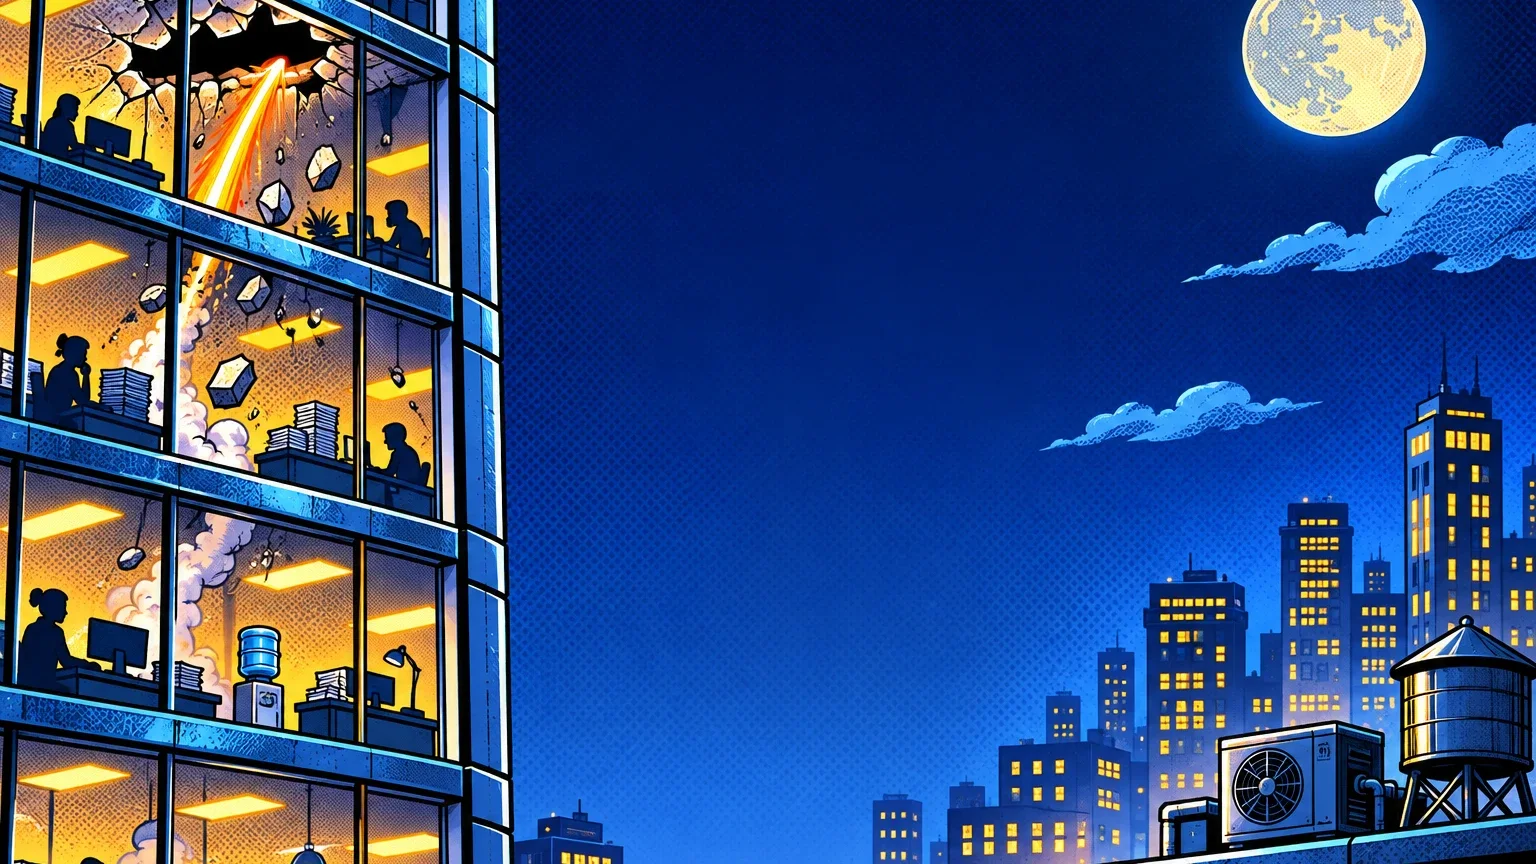
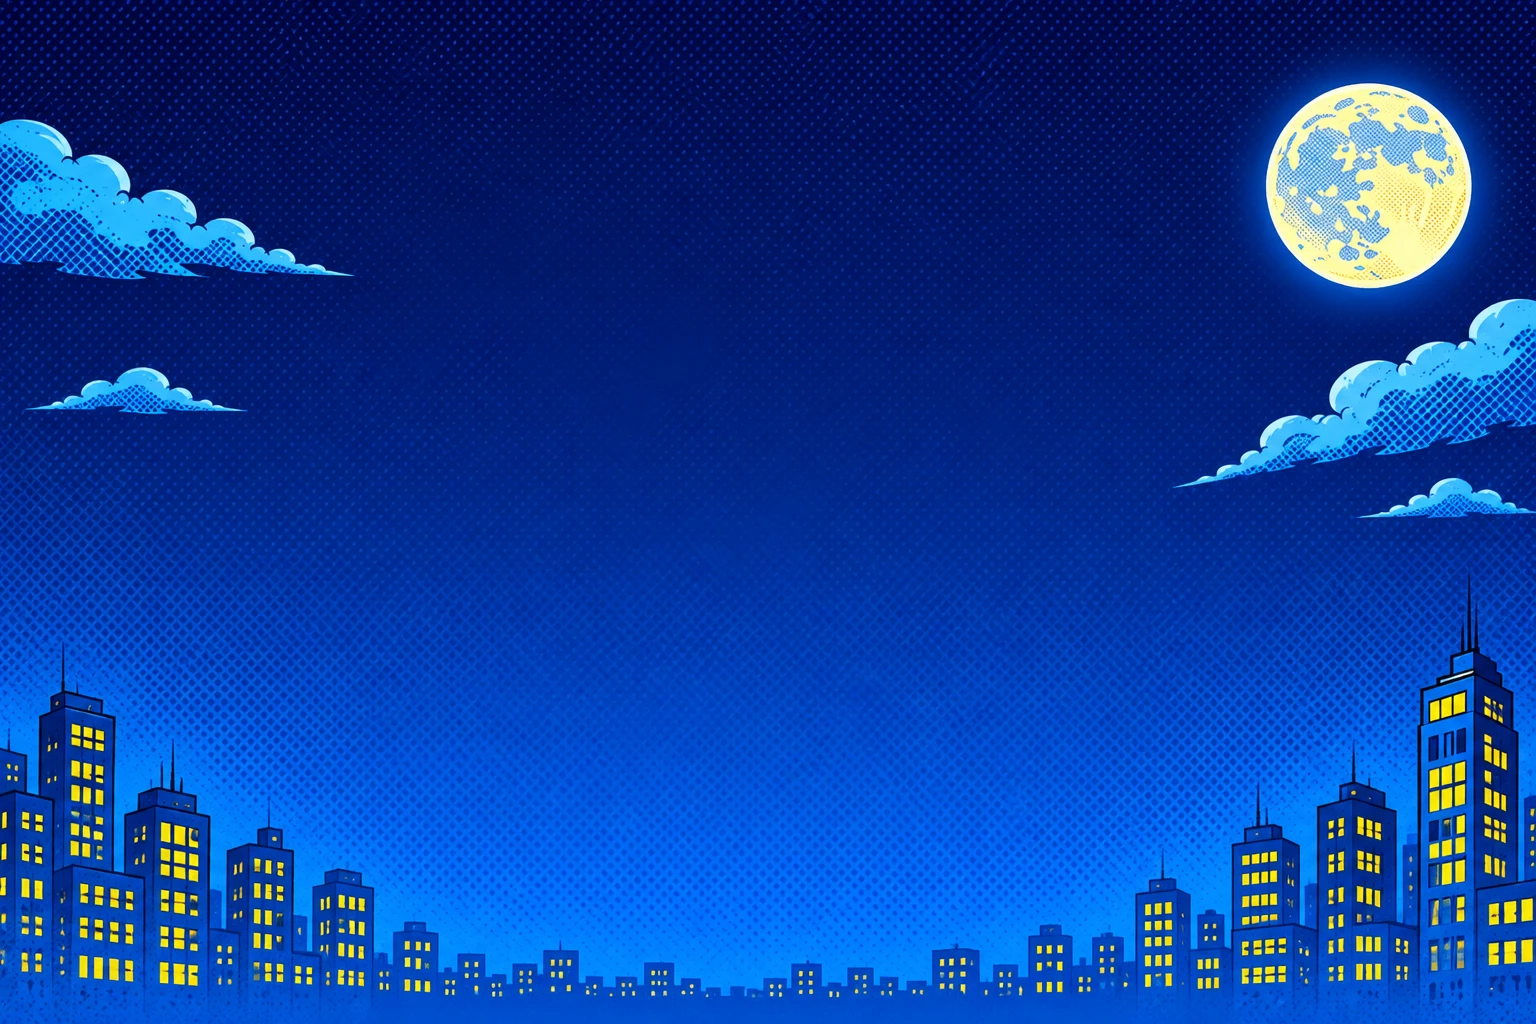
社畜要下班 CrazyGames 版：桌機背景換成單純夜空與遠方城市

diff --git a/games/rocket-chair/crazygames/cg.css b/games/rocket-chair/crazygames/cg.css
@@ -69,6 +69,6 @@
 #app.cg-playing #cg-audio-menu{top:calc(64px + env(safe-area-inset-top))}
 /* ===== Wide screens: centred, scaled game column on the city background (class set by cg-game.js) ===== */
 #app{container-type:size}
-body.cg-wide{background:#071033 url(desktop/bg.webp) center/cover no-repeat}
+body.cg-wide{background:#071033 url(desktop/bg.webp) center bottom/cover no-repeat}
 body.cg-wide #app{position:absolute;left:50%;top:50%;width:370px;height:640px;max-width:none;margin:0;transform-origin:center;border-radius:14px;
   box-shadow:0 0 0 3px #1d1b1a,0 0 0 7px #fff,0 0 0 10px #1d1b1a,0 24px 60px rgba(0,0,0,.6)}
